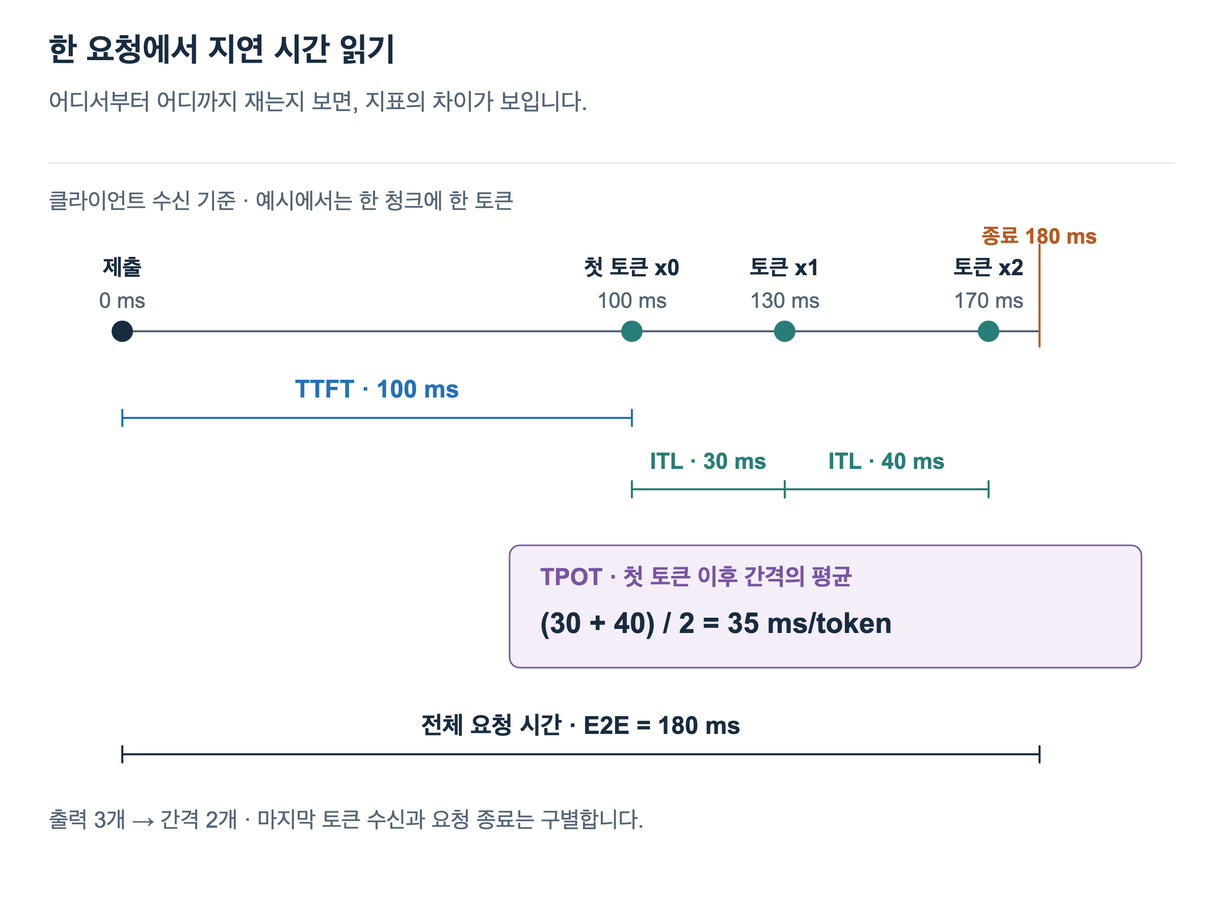
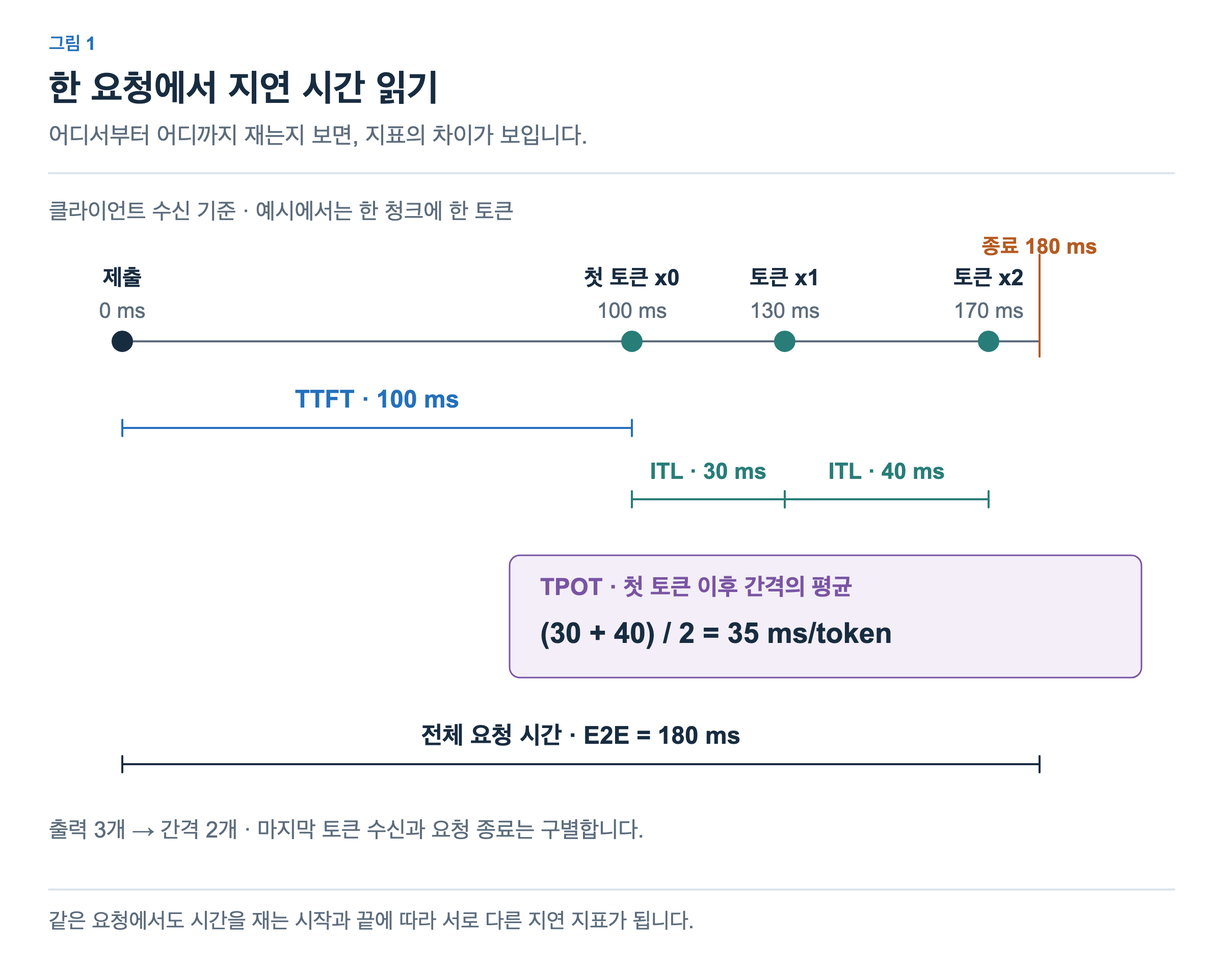
Port inference-metrics figures to the shared visualization module
Figures are regenerated from src/data/figures/inference-metrics with the standard frame
and in-image captions. The reviewed article figcaptions move into the images as captions and are removed from both pages.

diff --git a/src/data/figures/inference-metrics/02-counting-throughput.ts b/src/data/figures/inference-metrics/02-counting-throughput.ts
@@ -1,0 +1,74 @@
+import {C,Panel,type FigureSpec,type Locale} from '@llm-systems/viz';
+// Ported from the published SVG with its original geometry; replace parts with shared primitives when editing.
+export default {
+  articleId:"inference-metrics",figureId:"02-counting-throughput",number:"02-counting-throughput",
+  layout:'wide',screens:['desktop'],
+  eyebrow:["그림 2","Figure 2"],
+  title:["같은 시간 동안 처리한 양 세기","Count work over the same time window"],
+  subtitle:["완료한 요청을 셀 수도 있고, 전달한 출력 토큰을 셀 수도 있습니다.","Count completed requests or delivered output tokens."],
+  alt:["10초 안에서 A·B·C가 중첩 실행해 모두 완료하며 출력은 각각3·5·2개. 요청 처리량0.3requests/s, 출력 처리량1token/s.","A, B and C overlap and complete within 10 seconds with 3, 5 and 2 outputs. Request throughput is 0.3 requests/s and output throughput is 1 token/s."],
+  caption:["여러 요청의 완료 수와 출력 토큰 수를 같은 관측 시간으로 나눕니다.","Divide completed requests and output tokens across requests by the same observation time."],
+  sources:[],
+  panels(locale:Locale){
+    const p=new Panel(locale,null,741,1104,[48,196]);
+    p.el('text',{x:48,y:205,fill:C.muted,"font-size":23,"font-weight":400,"text-anchor":"start"},["모든 요청과 출력이 들어 있는 10초 관측 창","A 10-second window containing all requests and outputs"]);
+    p.el("path",{d:"M190,258 L1010,258",stroke:C.ink,"stroke-width":2,fill:"none"});
+    p.el("path",{d:"M190,250 L190,266",stroke:C.ink,"stroke-width":2,fill:"none"});
+    p.el("path",{d:"M1010,250 L1010,266",stroke:C.ink,"stroke-width":2,fill:"none"});
+    p.el('text',{x:600,y:238,fill:C.ink,"font-size":24,"font-weight":700,"text-anchor":"middle"},["관측 시간 10초","Observation time: 10 s"]);
+    p.el("path",{d:"M190,290 L190,610",stroke:C.line,"stroke-width":2,fill:"none","stroke-dasharray":"6 5"});
+    p.el('text',{x:190,y:638,fill:C.muted,"font-size":20,"font-weight":400,"text-anchor":"middle"},"0 s");
+    p.el("path",{d:"M354,290 L354,610",stroke:C.line,"stroke-width":2,fill:"none","stroke-dasharray":"6 5"});
+    p.el('text',{x:354,y:638,fill:C.muted,"font-size":20,"font-weight":400,"text-anchor":"middle"},"2 s");
+    p.el("path",{d:"M518,290 L518,610",stroke:C.line,"stroke-width":2,fill:"none","stroke-dasharray":"6 5"});
+    p.el('text',{x:518,y:638,fill:C.muted,"font-size":20,"font-weight":400,"text-anchor":"middle"},"4 s");
+    p.el("path",{d:"M682,290 L682,610",stroke:C.line,"stroke-width":2,fill:"none","stroke-dasharray":"6 5"});
+    p.el('text',{x:682,y:638,fill:C.muted,"font-size":20,"font-weight":400,"text-anchor":"middle"},"6 s");
+    p.el("path",{d:"M846,290 L846,610",stroke:C.line,"stroke-width":2,fill:"none","stroke-dasharray":"6 5"});
+    p.el('text',{x:846,y:638,fill:C.muted,"font-size":20,"font-weight":400,"text-anchor":"middle"},"8 s");
+    p.el("path",{d:"M1010,290 L1010,610",stroke:C.line,"stroke-width":2,fill:"none","stroke-dasharray":"6 5"});
+    p.el('text',{x:1010,y:638,fill:C.muted,"font-size":20,"font-weight":400,"text-anchor":"middle"},"10 s");
+    p.el('text',{x:48,y:342,fill:C.blue,"font-size":28,"font-weight":700,"text-anchor":"start"},"A");
+    p.el("path",{d:"M272,335 L632.8,335",stroke:C.blue,"stroke-width":2,fill:"none"});
+    p.el("circle",{cx:272,cy:335,r:9,fill:"white",stroke:C.blue,"stroke-width":3});
+    p.el("circle",{cx:436,cy:335,r:9,fill:C.blue,stroke:C.blue,"stroke-width":3});
+    p.el("circle",{cx:518,cy:335,r:9,fill:C.blue,stroke:C.blue,"stroke-width":3});
+    p.el("circle",{cx:600,cy:335,r:9,fill:C.blue,stroke:C.blue,"stroke-width":3});
+    p.el("rect",{x:620.8,y:319,width:30,height:32,rx:10,fill:C.blueFill,stroke:C.blue,"stroke-width":1.5});
+    p.el('text',{x:635.8,y:342,fill:C.blue,"font-size":22,"font-weight":700,"text-anchor":"middle"},"✓");
+    p.el('text',{x:1100,y:342,fill:C.blue,"font-size":23,"font-weight":700,"text-anchor":"middle"},["3토큰","3 tokens"]);
+    p.el('text',{x:48,y:457,fill:C.teal,"font-size":28,"font-weight":700,"text-anchor":"start"},"B");
+    p.el("path",{d:"M354,450 L878.8000000000001,450",stroke:C.teal,"stroke-width":2,fill:"none"});
+    p.el("circle",{cx:354,cy:450,r:9,fill:"white",stroke:C.teal,"stroke-width":3});
+    p.el("circle",{cx:518,cy:450,r:9,fill:C.teal,stroke:C.teal,"stroke-width":3});
+    p.el("circle",{cx:600,cy:450,r:9,fill:C.teal,stroke:C.teal,"stroke-width":3});
+    p.el("circle",{cx:682,cy:450,r:9,fill:C.teal,stroke:C.teal,"stroke-width":3});
+    p.el("circle",{cx:764,cy:450,r:9,fill:C.teal,stroke:C.teal,"stroke-width":3});
+    p.el("circle",{cx:846,cy:450,r:9,fill:C.teal,stroke:C.teal,"stroke-width":3});
+    p.el("rect",{x:866.8000000000001,y:434,width:30,height:32,rx:10,fill:C.tealFill,stroke:C.teal,"stroke-width":1.5});
+    p.el('text',{x:881.8000000000001,y:457,fill:C.teal,"font-size":22,"font-weight":700,"text-anchor":"middle"},"✓");
+    p.el('text',{x:1100,y:457,fill:C.teal,"font-size":23,"font-weight":700,"text-anchor":"middle"},["5토큰","5 tokens"]);
+    p.el('text',{x:48,y:572,fill:C.purple,"font-size":28,"font-weight":700,"text-anchor":"start"},"C");
+    p.el("path",{d:"M436,565 L928,565",stroke:C.purple,"stroke-width":2,fill:"none"});
+    p.el("circle",{cx:436,cy:565,r:9,fill:"white",stroke:C.purple,"stroke-width":3});
+    p.el("circle",{cx:764,cy:565,r:9,fill:C.purple,stroke:C.purple,"stroke-width":3});
+    p.el("circle",{cx:887,cy:565,r:9,fill:C.purple,stroke:C.purple,"stroke-width":3});
+    p.el("rect",{x:916,y:549,width:30,height:32,rx:10,fill:C.purpleFill,stroke:C.purple,"stroke-width":1.5});
+    p.el('text',{x:931,y:572,fill:C.purple,"font-size":22,"font-weight":700,"text-anchor":"middle"},"✓");
+    p.el('text',{x:1100,y:572,fill:C.purple,"font-size":23,"font-weight":700,"text-anchor":"middle"},["2토큰","2 tokens"]);
+    p.el("circle",{cx:90,cy:697,r:9,fill:"white",stroke:C.ink,"stroke-width":3});
+    p.el('text',{x:112,y:705,fill:C.ink,"font-size":22,"font-weight":400,"text-anchor":"start"},["요청 제출","Submit"]);
+    p.el("circle",{cx:360,cy:697,r:9,fill:C.teal,stroke:C.teal,"stroke-width":3});
+    p.el('text',{x:382,y:705,fill:C.ink,"font-size":22,"font-weight":400,"text-anchor":"start"},["출력 토큰 수신","Output token received"]);
+    p.el('text',{x:795,y:705,fill:C.blue,"font-size":25,"font-weight":700,"text-anchor":"start"},"✓");
+    p.el('text',{x:828,y:705,fill:C.ink,"font-size":22,"font-weight":400,"text-anchor":"start"},["요청 완료","Completed"]);
+    p.el("rect",{x:48,y:758,width:525,height:110,rx:10,fill:C.blueFill,stroke:C.blue,"stroke-width":1.5});
+    p.el('text',{x:68,y:792,fill:C.blue,"font-size":22,"font-weight":700,"text-anchor":"start"},["완료 요청 3개","3 completed requests"]);
+    p.el('text',{x:68,y:838,fill:C.ink,"font-size":29,"font-weight":700,"text-anchor":"start"},"3 / 10 = 0.3 requests/s");
+    p.el("rect",{x:605,y:758,width:547,height:110,rx:10,fill:C.tealFill,stroke:C.teal,"stroke-width":1.5});
+    p.el('text',{x:625,y:792,fill:C.teal,"font-size":22,"font-weight":700,"text-anchor":"start"},["출력 토큰 3 + 5 + 2 = 10개","3 + 5 + 2 = 10 output tokens"]);
+    p.el('text',{x:625,y:838,fill:C.ink,"font-size":29,"font-weight":700,"text-anchor":"start"},"10 / 10 = 1 token/s");
+    p.el('text',{x:48,y:922,fill:C.muted,"font-size":22,"font-weight":400,"text-anchor":"start"},["여러 요청의 결과를 같은 시간으로 나눕니다. 입력 토큰은 세지 않았습니다.","Count results across requests over the same time. Input tokens are not counted."]);
+    return [p];
+  },
+} satisfies FigureSpec;

diff --git a/src/data/figures/inference-metrics/05-goodput-targets.ts b/src/data/figures/inference-metrics/05-goodput-targets.ts
@@ -1,0 +1,58 @@
+import {C,Panel,type FigureSpec,type Locale} from '@llm-systems/viz';
+// Ported from the published SVG with its original geometry; replace parts with shared primitives when editing.
+export default {
+  articleId:"inference-metrics",figureId:"05-goodput-targets",number:"05-goodput-targets",
+  layout:'wide',screens:['desktop'],
+  eyebrow:["그림 5","Figure 5"],
+  title:["지연 목표를 만족한 처리량 세기","Count throughput that meets latency targets"],
+  subtitle:["Goodput을 계산하려면 먼저 통과 조건과 관측 시간을 정합니다.","Define the pass conditions and observation window before counting goodput."],
+  alt:["10초간10개요청완료.8개는TTFT1초이하와TPOT50ms/token이하를함께만족.2개는하나의목표초과.처리량1request/s,goodput0.8requests/s,달성률80%.","Ten requests complete in ten seconds. Eight meet both TTFT ≤1s and TPOT ≤50ms/token; two miss one target. Throughput 1 request/s, goodput 0.8 requests/s, attainment 80%."],
+  caption:["완료한 요청 중 지연 목표를 모두 충족한 요청만 세어 Goodput을 계산합니다.","Calculate goodput by counting only completed requests that meet every latency target."],
+  sources:[],
+  panels(locale:Locale){
+    const p=new Panel(locale,null,682,1104,[48,196]);
+    p.el("rect",{x:48,y:194,width:1104,height:94,rx:10,fill:C.purpleFill,stroke:C.purple,"stroke-width":1.5});
+    p.el('text',{x:76,y:231,fill:C.purple,"font-size":25,"font-weight":700,"text-anchor":"start"},["통과 조건 · 각 요청이 두 목표를 모두 만족","Pass rule · Each request must meet both targets"]);
+    p.el('text',{x:76,y:270,fill:C.ink,"font-size":27,"font-weight":700,"text-anchor":"start"},"TTFT ≤ 1 s   AND   TPOT ≤ 50 ms/token");
+    p.el('text',{x:48,y:340,fill:C.ink,"font-size":24,"font-weight":700,"text-anchor":"start"},["같은 10초 동안 성공 완료한 요청 10개","10 requests completed successfully within the same 10 seconds"]);
+    p.el("rect",{x:48,y:380,width:208,height:86,rx:10,fill:C.tealFill,stroke:C.teal,"stroke-width":1.5});
+    p.el('text',{x:66,y:413,fill:C.teal,"font-size":25,"font-weight":700,"text-anchor":"start"},"A   ✓");
+    p.el('text',{x:66,y:445,fill:C.teal,"font-size":21,"font-weight":400,"text-anchor":"start"},["목표 모두 충족","Both targets met"]);
+    p.el("rect",{x:272,y:380,width:208,height:86,rx:10,fill:C.tealFill,stroke:C.teal,"stroke-width":1.5});
+    p.el('text',{x:290,y:413,fill:C.teal,"font-size":25,"font-weight":700,"text-anchor":"start"},"B   ✓");
+    p.el('text',{x:290,y:445,fill:C.teal,"font-size":21,"font-weight":400,"text-anchor":"start"},["목표 모두 충족","Both targets met"]);
+    p.el("rect",{x:496,y:380,width:208,height:86,rx:10,fill:C.tealFill,stroke:C.teal,"stroke-width":1.5});
+    p.el('text',{x:514,y:413,fill:C.teal,"font-size":25,"font-weight":700,"text-anchor":"start"},"C   ✓");
+    p.el('text',{x:514,y:445,fill:C.teal,"font-size":21,"font-weight":400,"text-anchor":"start"},["목표 모두 충족","Both targets met"]);
+    p.el("rect",{x:720,y:380,width:208,height:86,rx:10,fill:C.tealFill,stroke:C.teal,"stroke-width":1.5});
+    p.el('text',{x:738,y:413,fill:C.teal,"font-size":25,"font-weight":700,"text-anchor":"start"},"D   ✓");
+    p.el('text',{x:738,y:445,fill:C.teal,"font-size":21,"font-weight":400,"text-anchor":"start"},["목표 모두 충족","Both targets met"]);
+    p.el("rect",{x:944,y:380,width:208,height:86,rx:10,fill:C.tealFill,stroke:C.teal,"stroke-width":1.5});
+    p.el('text',{x:962,y:413,fill:C.teal,"font-size":25,"font-weight":700,"text-anchor":"start"},"E   ✓");
+    p.el('text',{x:962,y:445,fill:C.teal,"font-size":21,"font-weight":400,"text-anchor":"start"},["목표 모두 충족","Both targets met"]);
+    p.el("rect",{x:48,y:492,width:208,height:86,rx:10,fill:C.tealFill,stroke:C.teal,"stroke-width":1.5});
+    p.el('text',{x:66,y:525,fill:C.teal,"font-size":25,"font-weight":700,"text-anchor":"start"},"F   ✓");
+    p.el('text',{x:66,y:557,fill:C.teal,"font-size":21,"font-weight":400,"text-anchor":"start"},["목표 모두 충족","Both targets met"]);
+    p.el("rect",{x:272,y:492,width:208,height:86,rx:10,fill:C.tealFill,stroke:C.teal,"stroke-width":1.5});
+    p.el('text',{x:290,y:525,fill:C.teal,"font-size":25,"font-weight":700,"text-anchor":"start"},"G   ✓");
+    p.el('text',{x:290,y:557,fill:C.teal,"font-size":21,"font-weight":400,"text-anchor":"start"},["목표 모두 충족","Both targets met"]);
+    p.el("rect",{x:496,y:492,width:208,height:86,rx:10,fill:C.tealFill,stroke:C.teal,"stroke-width":1.5});
+    p.el('text',{x:514,y:525,fill:C.teal,"font-size":25,"font-weight":700,"text-anchor":"start"},"H   ✓");
+    p.el('text',{x:514,y:557,fill:C.teal,"font-size":21,"font-weight":400,"text-anchor":"start"},["목표 모두 충족","Both targets met"]);
+    p.el("rect",{x:720,y:492,width:208,height:86,rx:10,fill:C.orangeFill,stroke:C.orange,"stroke-width":1.5});
+    p.el('text',{x:738,y:525,fill:C.orange,"font-size":25,"font-weight":700,"text-anchor":"start"},"I   ×");
+    p.el('text',{x:738,y:557,fill:C.orange,"font-size":21,"font-weight":400,"text-anchor":"start"},["TTFT 초과","TTFT exceeded"]);
+    p.el("rect",{x:944,y:492,width:208,height:86,rx:10,fill:C.orangeFill,stroke:C.orange,"stroke-width":1.5});
+    p.el('text',{x:962,y:525,fill:C.orange,"font-size":25,"font-weight":700,"text-anchor":"start"},"J   ×");
+    p.el('text',{x:962,y:557,fill:C.orange,"font-size":21,"font-weight":400,"text-anchor":"start"},["TPOT 초과","TPOT exceeded"]);
+    p.el("rect",{x:48,y:635,width:525,height:110,rx:10,fill:C.blueFill,stroke:C.blue,"stroke-width":1.5});
+    p.el('text',{x:68,y:669,fill:C.blue,"font-size":22,"font-weight":700,"text-anchor":"start"},["전체 요청 처리량","Total request throughput"]);
+    p.el('text',{x:68,y:715,fill:C.ink,"font-size":29,"font-weight":700,"text-anchor":"start"},"10 / 10 = 1 request/s");
+    p.el("rect",{x:605,y:635,width:547,height:110,rx:10,fill:C.tealFill,stroke:C.teal,"stroke-width":1.5});
+    p.el('text',{x:625,y:669,fill:C.teal,"font-size":22,"font-weight":700,"text-anchor":"start"},["목표 충족 요청 처리량 · Goodput","Request goodput"]);
+    p.el('text',{x:625,y:715,fill:C.ink,"font-size":29,"font-weight":700,"text-anchor":"start"},"8 / 10 = 0.8 requests/s");
+    p.el('text',{x:48,y:800,fill:C.muted,"font-size":23,"font-weight":400,"text-anchor":"start"},["목표 달성률은 8 / 10 = 80% · Goodput의 단위는 요청/초","Target attainment is 8 / 10 = 80% · Goodput is measured in requests/s"]);
+    p.el('text',{x:48,y:862,fill:C.ink,"font-size":25,"font-weight":700,"text-anchor":"start"},["완료한 양과 지연 목표를 지키며 완료한 양을 함께 봅니다.","Consider both total completions and completions within latency targets."]);
+    return [p];
+  },
+} satisfies FigureSpec;

diff --git a/src/data/figures/inference-metrics/04-request-latency-distribution.ts b/src/data/figures/inference-metrics/04-request-latency-distribution.ts
@@ -1,0 +1,59 @@
+import {C,Panel,type FigureSpec,type Locale} from '@llm-systems/viz';
+// Ported from the published SVG with its original geometry; replace parts with shared primitives when editing.
+export default {
+  articleId:"inference-metrics",figureId:"04-request-latency-distribution",number:"04-request-latency-distribution",
+  layout:'wide',screens:['desktop'],
+  eyebrow:["그림 4","Figure 4"],
+  title:["일부 요청이 더 오래 기다립니다","Some requests wait much longer"],
+  subtitle:["백분위수는 정렬한 지연 값에서 어느 위치를 보는지 나타냅니다.","A percentile identifies a position among sorted latency values."],
+  alt:["정렬한20개요청의TTFT막대.10번째190ms가p50,19번째600ms가p95,20번째1000ms.순위올림방식을사용한예시.","Sorted TTFT bars for 20 requests. The 10th is 190ms (p50), the 19th 600ms (p95), and the 20th 1000ms, using nearest-rank percentiles."],
+  caption:["요청별 지연을 정렬하면 대부분의 요청과 오래 기다린 요청을 구별할 수 있습니다.","Sorting request latencies distinguishes the majority of requests from those that waited longer."],
+  sources:[],
+  panels(locale:Locale){
+    const p=new Panel(locale,null,749,1104,[48,196]);
+    p.el('text',{x:48,y:205,fill:C.muted,"font-size":23,"font-weight":400,"text-anchor":"start"},["20개 요청의 TTFT · 짧은 순서로 정렬","TTFT for 20 requests · Sorted from shortest to longest"]);
+    p.el("path",{d:"M100,650.0 L1130,650.0",stroke:C.line,"stroke-width":2,fill:"none"});
+    p.el('text',{x:83,y:657,fill:C.muted,"font-size":20,"font-weight":400,"text-anchor":"end"},"0");
+    p.el("path",{d:"M100,470.0 L1130,470.0",stroke:C.line,"stroke-width":2,fill:"none"});
+    p.el('text',{x:83,y:477,fill:C.muted,"font-size":20,"font-weight":400,"text-anchor":"end"},"500");
+    p.el("path",{d:"M100,290.0 L1130,290.0",stroke:C.line,"stroke-width":2,fill:"none"});
+    p.el('text',{x:83,y:297,fill:C.muted,"font-size":20,"font-weight":400,"text-anchor":"end"},"1000");
+    p.el('text',{x:48,y:253,fill:C.muted,"font-size":21,"font-weight":400,"text-anchor":"start"},"ms");
+    p.el("rect",{x:120,y:614,width:32,height:36,rx:10,fill:C.blueFill,stroke:C.blue,"stroke-width":1.5});
+    p.el('text',{x:136,y:681,fill:C.blue,"font-size":21,"font-weight":700,"text-anchor":"middle"},"1");
+    p.el("rect",{x:169,y:610.4,width:32,height:39.6,rx:10,fill:C.blueFill,stroke:C.blue,"stroke-width":1.5});
+    p.el("rect",{x:218,y:606.8,width:32,height:43.199999999999996,rx:10,fill:C.blueFill,stroke:C.blue,"stroke-width":1.5});
+    p.el("rect",{x:267,y:603.2,width:32,height:46.8,rx:10,fill:C.blueFill,stroke:C.blue,"stroke-width":1.5});
+    p.el("rect",{x:316,y:599.6,width:32,height:50.4,rx:10,fill:C.blueFill,stroke:C.blue,"stroke-width":1.5});
+    p.el("rect",{x:365,y:596,width:32,height:54,rx:10,fill:C.blueFill,stroke:C.blue,"stroke-width":1.5});
+    p.el("rect",{x:414,y:592.4,width:32,height:57.599999999999994,rx:10,fill:C.blueFill,stroke:C.blue,"stroke-width":1.5});
+    p.el("rect",{x:463,y:588.8,width:32,height:61.199999999999996,rx:10,fill:C.blueFill,stroke:C.blue,"stroke-width":1.5});
+    p.el("rect",{x:512,y:585.2,width:32,height:64.8,rx:10,fill:C.blueFill,stroke:C.blue,"stroke-width":1.5});
+    p.el("rect",{x:561,y:581.6,width:32,height:68.39999999999999,rx:10,fill:C.blueFill,stroke:C.blue,"stroke-width":1.5});
+    p.el('text',{x:577,y:681,fill:C.blue,"font-size":21,"font-weight":700,"text-anchor":"middle"},"10");
+    p.el('text',{x:577,y:566.6,fill:C.blue,"font-size":21,"font-weight":700,"text-anchor":"middle"},"190");
+    p.el("rect",{x:610,y:578,width:32,height:72,rx:10,fill:C.purpleFill,stroke:C.purple,"stroke-width":1.5});
+    p.el("rect",{x:659,y:574.4,width:32,height:75.6,rx:10,fill:C.purpleFill,stroke:C.purple,"stroke-width":1.5});
+    p.el("rect",{x:708,y:570.8,width:32,height:79.2,rx:10,fill:C.purpleFill,stroke:C.purple,"stroke-width":1.5});
+    p.el("rect",{x:757,y:567.2,width:32,height:82.8,rx:10,fill:C.purpleFill,stroke:C.purple,"stroke-width":1.5});
+    p.el("rect",{x:806,y:563.6,width:32,height:86.39999999999999,rx:10,fill:C.purpleFill,stroke:C.purple,"stroke-width":1.5});
+    p.el("rect",{x:855,y:560,width:32,height:90,rx:10,fill:C.purpleFill,stroke:C.purple,"stroke-width":1.5});
+    p.el("rect",{x:904,y:556.4,width:32,height:93.6,rx:10,fill:C.purpleFill,stroke:C.purple,"stroke-width":1.5});
+    p.el("rect",{x:953,y:552.8,width:32,height:97.2,rx:10,fill:C.purpleFill,stroke:C.purple,"stroke-width":1.5});
+    p.el("rect",{x:1002,y:434,width:32,height:216,rx:10,fill:C.purpleFill,stroke:C.purple,"stroke-width":1.5});
+    p.el('text',{x:1018,y:681,fill:C.purple,"font-size":21,"font-weight":700,"text-anchor":"middle"},"19");
+    p.el('text',{x:1018,y:419,fill:C.purple,"font-size":21,"font-weight":700,"text-anchor":"middle"},"600");
+    p.el("rect",{x:1051,y:290,width:32,height:360,rx:10,fill:C.orangeFill,stroke:C.orange,"stroke-width":1.5});
+    p.el('text',{x:1067,y:681,fill:C.orange,"font-size":21,"font-weight":700,"text-anchor":"middle"},"20");
+    p.el('text',{x:1067,y:275,fill:C.orange,"font-size":21,"font-weight":700,"text-anchor":"middle"},"1000");
+    p.el('text',{x:630,y:727,fill:C.muted,"font-size":23,"font-weight":400,"text-anchor":"middle"},["정렬한 요청의 순서 →","Rank of each sorted request →"]);
+    p.el("rect",{x:48,y:770,width:525,height:110,rx:10,fill:C.blueFill,stroke:C.blue,"stroke-width":1.5});
+    p.el('text',{x:68,y:804,fill:C.blue,"font-size":22,"font-weight":700,"text-anchor":"start"},["p50 · 20개 중 10번째","p50 · 10th of 20 requests"]);
+    p.el('text',{x:68,y:850,fill:C.ink,"font-size":29,"font-weight":700,"text-anchor":"start"},"190 ms");
+    p.el("rect",{x:605,y:770,width:547,height:110,rx:10,fill:C.purpleFill,stroke:C.purple,"stroke-width":1.5});
+    p.el('text',{x:625,y:804,fill:C.purple,"font-size":22,"font-weight":700,"text-anchor":"start"},["p95 · 20개 중 19번째","p95 · 19th of 20 requests"]);
+    p.el('text',{x:625,y:850,fill:C.ink,"font-size":29,"font-weight":700,"text-anchor":"start"},"600 ms");
+    p.el('text',{x:48,y:930,fill:C.muted,"font-size":22,"font-weight":400,"text-anchor":"start"},["이 예시는 순위 = 올림(p × 20) 규칙입니다. 각 막대는 한 요청의 TTFT입니다.","Here, rank = ceil(p × 20). Each bar is one request’s TTFT."]);
+    return [p];
+  },
+} satisfies FigureSpec;

diff --git a/src/data/figures/inference-metrics/03-average-and-gaps.ts b/src/data/figures/inference-metrics/03-average-and-gaps.ts
@@ -1,0 +1,60 @@
+import {C,Panel,type FigureSpec,type Locale} from '@llm-systems/viz';
+// Ported from the published SVG with its original geometry; replace parts with shared primitives when editing.
+export default {
+  articleId:"inference-metrics",figureId:"03-average-and-gaps",number:"03-average-and-gaps",
+  layout:'wide',screens:['desktop'],
+  eyebrow:["그림 3","Figure 3"],
+  title:["평균이 같아도 출력 간격은 다릅니다","The same average can hide different gaps"],
+  subtitle:["TPOT는 간격의 평균입니다. ITL은 각 간격을 드러냅니다.","TPOT averages the intervals. ITL exposes each individual gap."],
+  alt:["두 출력열의 ITL은35·35ms와5·65ms. TPOT는둘다35ms/token이지만두번째에는65ms공백이있습니다.","Two streams have ITLs of 35/35ms and 5/65ms. Both have TPOT 35ms/token, but the second has a 65ms gap."],
+  caption:["같은 TPOT라도 실제 토큰 간격을 보면 생성 중의 긴 멈춤이 드러납니다.","Even with the same TPOT, individual token intervals can reveal a long pause during generation."],
+  sources:[],
+  panels(locale:Locale){
+    const p=new Panel(locale,null,687,1104,[48,196]);
+    p.el('text',{x:48,y:205,fill:C.muted,"font-size":23,"font-weight":400,"text-anchor":"start"},["두 경우 모두 첫 토큰부터 마지막 토큰까지 70 ms","Both cases span 70 ms from the first to the last token"]);
+    p.el('text',{x:48,y:245,fill:C.blue,"font-size":26,"font-weight":700,"text-anchor":"start"},["일정한 간격","Even intervals"]);
+    p.el("path",{d:"M170,330 L940,330",stroke:C.muted,"stroke-width":2,fill:"none"});
+    p.el("circle",{cx:170,cy:330,r:9,fill:C.blue,stroke:C.blue,"stroke-width":3});
+    p.el('text',{x:170,y:369,fill:C.blue,"font-size":21,"font-weight":700,"text-anchor":"middle"},"x0");
+    p.el("circle",{cx:555,cy:330,r:9,fill:C.blue,stroke:C.blue,"stroke-width":3});
+    p.el('text',{x:555,y:369,fill:C.blue,"font-size":21,"font-weight":700,"text-anchor":"middle"},"x1");
+    p.el("circle",{cx:940,cy:330,r:9,fill:C.blue,stroke:C.blue,"stroke-width":3});
+    p.el('text',{x:940,y:369,fill:C.blue,"font-size":21,"font-weight":700,"text-anchor":"middle"},"x2");
+    p.el("path",{d:"M170,310 L555,310",stroke:C.blue,"stroke-width":2,fill:"none"});
+    p.el("path",{d:"M170,302 L170,318",stroke:C.blue,"stroke-width":2,fill:"none"});
+    p.el("path",{d:"M555,302 L555,318",stroke:C.blue,"stroke-width":2,fill:"none"});
+    p.el('text',{x:362.5,y:290,fill:C.blue,"font-size":24,"font-weight":700,"text-anchor":"middle"},"35 ms");
+    p.el("path",{d:"M555,310 L940,310",stroke:C.blue,"stroke-width":2,fill:"none"});
+    p.el("path",{d:"M555,302 L555,318",stroke:C.blue,"stroke-width":2,fill:"none"});
+    p.el("path",{d:"M940,302 L940,318",stroke:C.blue,"stroke-width":2,fill:"none"});
+    p.el('text',{x:747.5,y:290,fill:C.blue,"font-size":24,"font-weight":700,"text-anchor":"middle"},"35 ms");
+    p.el('text',{x:990,y:337,fill:C.muted,"font-size":22,"font-weight":400,"text-anchor":"start"},"TPOT");
+    p.el('text',{x:980,y:377,fill:C.purple,"font-size":23,"font-weight":700,"text-anchor":"start"},"35 ms/token");
+    p.el('text',{x:48,y:505,fill:C.teal,"font-size":26,"font-weight":700,"text-anchor":"start"},["긴 출력 공백","A long output gap"]);
+    p.el("path",{d:"M170,590 L940,590",stroke:C.muted,"stroke-width":2,fill:"none"});
+    p.el("circle",{cx:170,cy:590,r:9,fill:C.teal,stroke:C.teal,"stroke-width":3});
+    p.el('text',{x:170,y:629,fill:C.teal,"font-size":21,"font-weight":700,"text-anchor":"middle"},"x0");
+    p.el("circle",{cx:225,cy:590,r:9,fill:C.teal,stroke:C.teal,"stroke-width":3});
+    p.el('text',{x:225,y:629,fill:C.teal,"font-size":21,"font-weight":700,"text-anchor":"middle"},"x1");
+    p.el("circle",{cx:940,cy:590,r:9,fill:C.teal,stroke:C.teal,"stroke-width":3});
+    p.el('text',{x:940,y:629,fill:C.teal,"font-size":21,"font-weight":700,"text-anchor":"middle"},"x2");
+    p.el("path",{d:"M170,570 L225,570",stroke:C.teal,"stroke-width":2,fill:"none"});
+    p.el("path",{d:"M170,562 L170,578",stroke:C.teal,"stroke-width":2,fill:"none"});
+    p.el("path",{d:"M225,562 L225,578",stroke:C.teal,"stroke-width":2,fill:"none"});
+    p.el('text',{x:197.5,y:550,fill:C.teal,"font-size":24,"font-weight":700,"text-anchor":"middle"},"");
+    p.el("path",{d:"M197.5,562 L270,525",stroke:C.teal,"stroke-width":2,fill:"none"});
+    p.el('text',{x:280,y:523,fill:C.teal,"font-size":22,"font-weight":700,"text-anchor":"start"},"5 ms");
+    p.el("path",{d:"M225,570 L940,570",stroke:C.teal,"stroke-width":2,fill:"none"});
+    p.el("path",{d:"M225,562 L225,578",stroke:C.teal,"stroke-width":2,fill:"none"});
+    p.el("path",{d:"M940,562 L940,578",stroke:C.teal,"stroke-width":2,fill:"none"});
+    p.el('text',{x:582.5,y:550,fill:C.teal,"font-size":24,"font-weight":700,"text-anchor":"middle"},"65 ms");
+    p.el('text',{x:990,y:597,fill:C.muted,"font-size":22,"font-weight":400,"text-anchor":"start"},"TPOT");
+    p.el('text',{x:980,y:637,fill:C.purple,"font-size":23,"font-weight":700,"text-anchor":"start"},"35 ms/token");
+    p.el("rect",{x:250,y:653,width:650,height:55,rx:10,fill:C.orangeFill,stroke:C.orange,"stroke-width":1.5});
+    p.el('text',{x:575,y:688,fill:C.orange,"font-size":23,"font-weight":700,"text-anchor":"middle"},["65 ms 동안 다음 출력이 오지 않음","No next output for 65 ms"]);
+    p.el("rect",{x:48,y:775,width:1104,height:100,rx:10,fill:C.purpleFill,stroke:C.purple,"stroke-width":1.5});
+    p.el('text',{x:80,y:816,fill:C.purple,"font-size":27,"font-weight":700,"text-anchor":"start"},["같은 평균으로는 생성 도중의 멈춤을 알 수 없습니다.","The same average can hide a pause during generation."]);
+    p.el('text',{x:80,y:852,fill:C.ink,"font-size":23,"font-weight":400,"text-anchor":"start"},"(35 + 35) / 2 = (5 + 65) / 2 = 35 ms/token");
+    return [p];
+  },
+} satisfies FigureSpec;

diff --git a/src/data/figures/inference-metrics/01-request-latency.ts b/src/data/figures/inference-metrics/01-request-latency.ts
@@ -1,0 +1,52 @@
+import {C,Panel,type FigureSpec,type Locale} from '@llm-systems/viz';
+// Ported from the published SVG with its original geometry; replace parts with shared primitives when editing.
+export default {
+  articleId:"inference-metrics",figureId:"01-request-latency",number:"01-request-latency",
+  layout:'wide',screens:['desktop'],
+  eyebrow:["그림 1","Figure 1"],
+  title:["한 요청에서 지연 시간 읽기","Read latency on one request timeline"],
+  subtitle:["어디서부터 어디까지 재는지 보면, 지표의 차이가 보입니다.","Each metric measures a different span on the same timeline."],
+  alt:["제출 0ms, 토큰 수신 100·130·170ms, 종료 180ms. TTFT 100ms, ITL 30·40ms, TPOT 35ms/token, E2E 180ms.","Submit at 0ms, tokens at 100, 130 and 170ms, end at 180ms. TTFT 100ms, ITLs 30 and 40ms, TPOT 35ms/token, E2E 180ms."],
+  caption:["같은 요청에서도 시간을 재는 시작과 끝에 따라 서로 다른 지연 지표가 됩니다.","Different starting and ending points on the same request produce different latency metrics."],
+  sources:[],
+  panels(locale:Locale){
+    const p=new Panel(locale,null,631,1104,[48,196]);
+    p.el('text',{x:48,y:205,fill:C.muted,"font-size":22,"font-weight":400,"text-anchor":"start"},["클라이언트 수신 기준 · 예시에서는 한 청크에 한 토큰","Client receipt times · One token per chunk in this example"]);
+    p.el("path",{d:"M120,325 L1020,325",stroke:C.muted,"stroke-width":2,fill:"none"});
+    p.el("circle",{cx:120,cy:325,r:9,fill:C.ink,stroke:C.ink,"stroke-width":3});
+    p.el('text',{x:120,y:270,fill:C.ink,"font-size":22,"font-weight":700,"text-anchor":"middle"},["제출","Submit"]);
+    p.el('text',{x:120,y:302,fill:C.muted,"font-size":21,"font-weight":400,"text-anchor":"middle"},"0 ms");
+    p.el("circle",{cx:620,cy:325,r:9,fill:C.teal,stroke:C.teal,"stroke-width":3});
+    p.el('text',{x:620,y:270,fill:C.ink,"font-size":22,"font-weight":700,"text-anchor":"middle"},["첫 토큰 x0","First token x0"]);
+    p.el('text',{x:620,y:302,fill:C.muted,"font-size":21,"font-weight":400,"text-anchor":"middle"},"100 ms");
+    p.el("circle",{cx:770,cy:325,r:9,fill:C.teal,stroke:C.teal,"stroke-width":3});
+    p.el('text',{x:770,y:270,fill:C.ink,"font-size":22,"font-weight":700,"text-anchor":"middle"},["토큰 x1","Token x1"]);
+    p.el('text',{x:770,y:302,fill:C.muted,"font-size":21,"font-weight":400,"text-anchor":"middle"},"130 ms");
+    p.el("circle",{cx:970,cy:325,r:9,fill:C.teal,stroke:C.teal,"stroke-width":3});
+    p.el('text',{x:970,y:270,fill:C.ink,"font-size":22,"font-weight":700,"text-anchor":"middle"},["토큰 x2","Token x2"]);
+    p.el('text',{x:970,y:302,fill:C.muted,"font-size":21,"font-weight":400,"text-anchor":"middle"},"170 ms");
+    p.el("path",{d:"M1020,240 L1020,340",stroke:C.orange,"stroke-width":2,fill:"none"});
+    p.el('text',{x:1020,y:239,fill:C.orange,"font-size":21,"font-weight":700,"text-anchor":"middle"},["종료 180 ms","End 180 ms"]);
+    p.el("path",{d:"M120,410 L620,410",stroke:C.blue,"stroke-width":2,fill:"none"});
+    p.el("path",{d:"M120,402 L120,418",stroke:C.blue,"stroke-width":2,fill:"none"});
+    p.el("path",{d:"M620,402 L620,418",stroke:C.blue,"stroke-width":2,fill:"none"});
+    p.el('text',{x:370,y:390,fill:C.blue,"font-size":24,"font-weight":700,"text-anchor":"middle"},"TTFT · 100 ms");
+    p.el("path",{d:"M620,480 L770,480",stroke:C.teal,"stroke-width":2,fill:"none"});
+    p.el("path",{d:"M620,472 L620,488",stroke:C.teal,"stroke-width":2,fill:"none"});
+    p.el("path",{d:"M770,472 L770,488",stroke:C.teal,"stroke-width":2,fill:"none"});
+    p.el('text',{x:695,y:460,fill:C.teal,"font-size":22,"font-weight":700,"text-anchor":"middle"},"ITL · 30 ms");
+    p.el("path",{d:"M770,480 L970,480",stroke:C.teal,"stroke-width":2,fill:"none"});
+    p.el("path",{d:"M770,472 L770,488",stroke:C.teal,"stroke-width":2,fill:"none"});
+    p.el("path",{d:"M970,472 L970,488",stroke:C.teal,"stroke-width":2,fill:"none"});
+    p.el('text',{x:870,y:460,fill:C.teal,"font-size":22,"font-weight":700,"text-anchor":"middle"},"ITL · 40 ms");
+    p.el("rect",{x:500,y:535,width:620,height:120,rx:10,fill:C.purpleFill,stroke:C.purple,"stroke-width":1.5});
+    p.el('text',{x:530,y:574,fill:C.purple,"font-size":23,"font-weight":700,"text-anchor":"start"},["TPOT · 첫 토큰 이후 간격의 평균","TPOT · Average interval after the first token"]);
+    p.el('text',{x:530,y:621,fill:C.ink,"font-size":28,"font-weight":700,"text-anchor":"start"},"(30 + 40) / 2 = 35 ms/token");
+    p.el("path",{d:"M120,740 L1020,740",stroke:C.ink,"stroke-width":2,fill:"none"});
+    p.el("path",{d:"M120,732 L120,748",stroke:C.ink,"stroke-width":2,fill:"none"});
+    p.el("path",{d:"M1020,732 L1020,748",stroke:C.ink,"stroke-width":2,fill:"none"});
+    p.el('text',{x:570,y:720,fill:C.ink,"font-size":24,"font-weight":700,"text-anchor":"middle"},["전체 요청 시간 · E2E = 180 ms","Full request time · E2E = 180 ms"]);
+    p.el('text',{x:48,y:812,fill:C.muted,"font-size":22,"font-weight":400,"text-anchor":"start"},["출력 3개 → 간격 2개 · 마지막 토큰 수신과 요청 종료는 구별합니다.","3 output tokens → 2 intervals · Last-token receipt and request end are distinct."]);
+    return [p];
+  },
+} satisfies FigureSpec;
